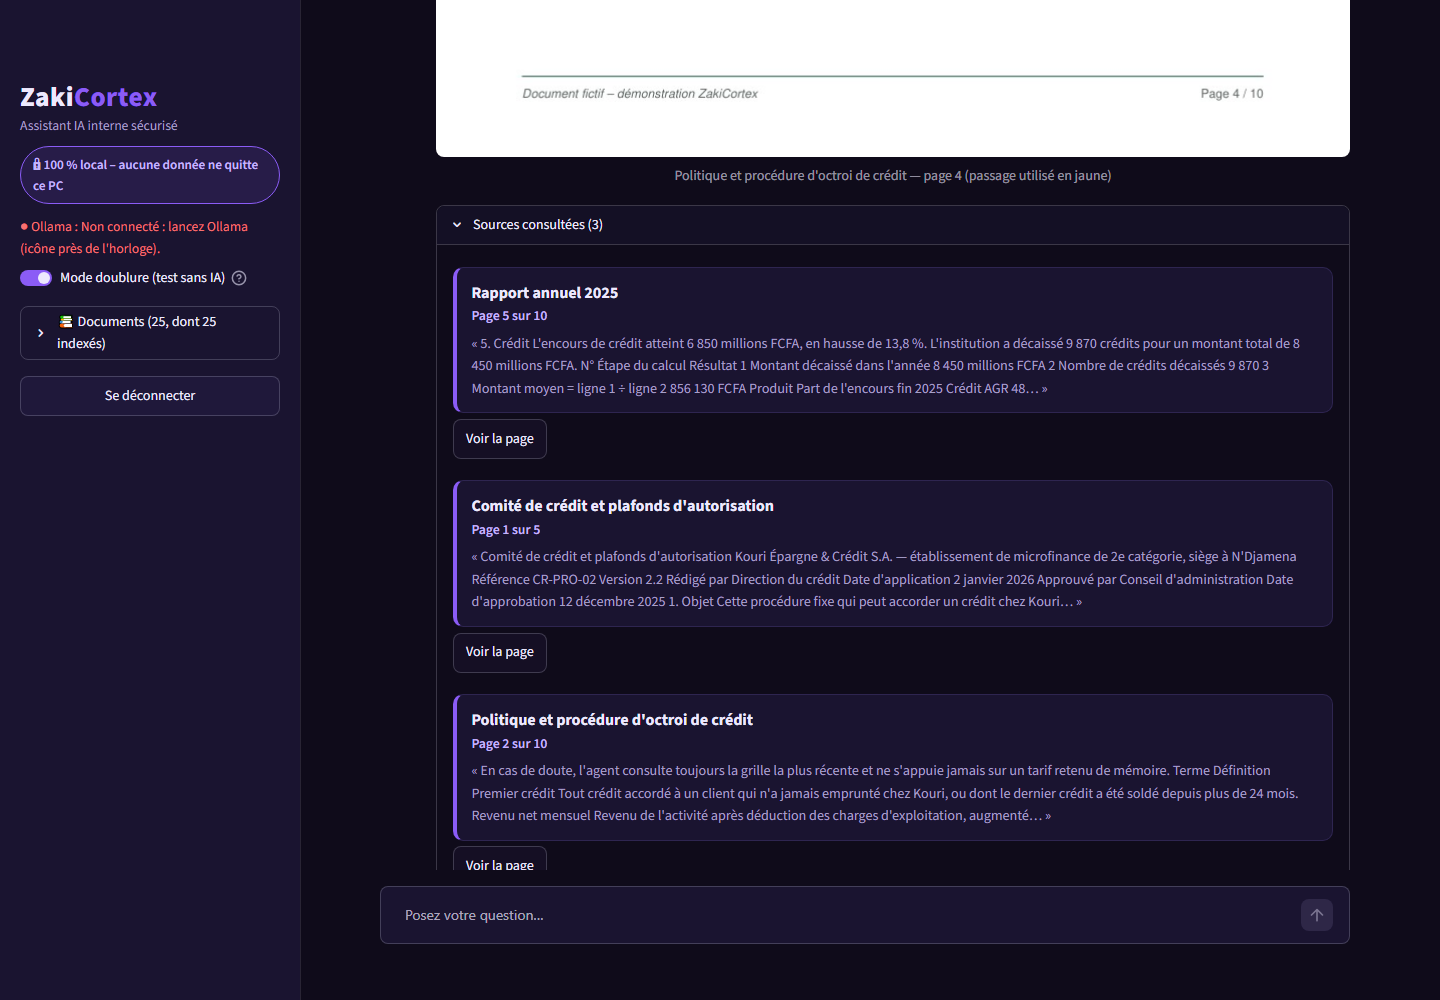
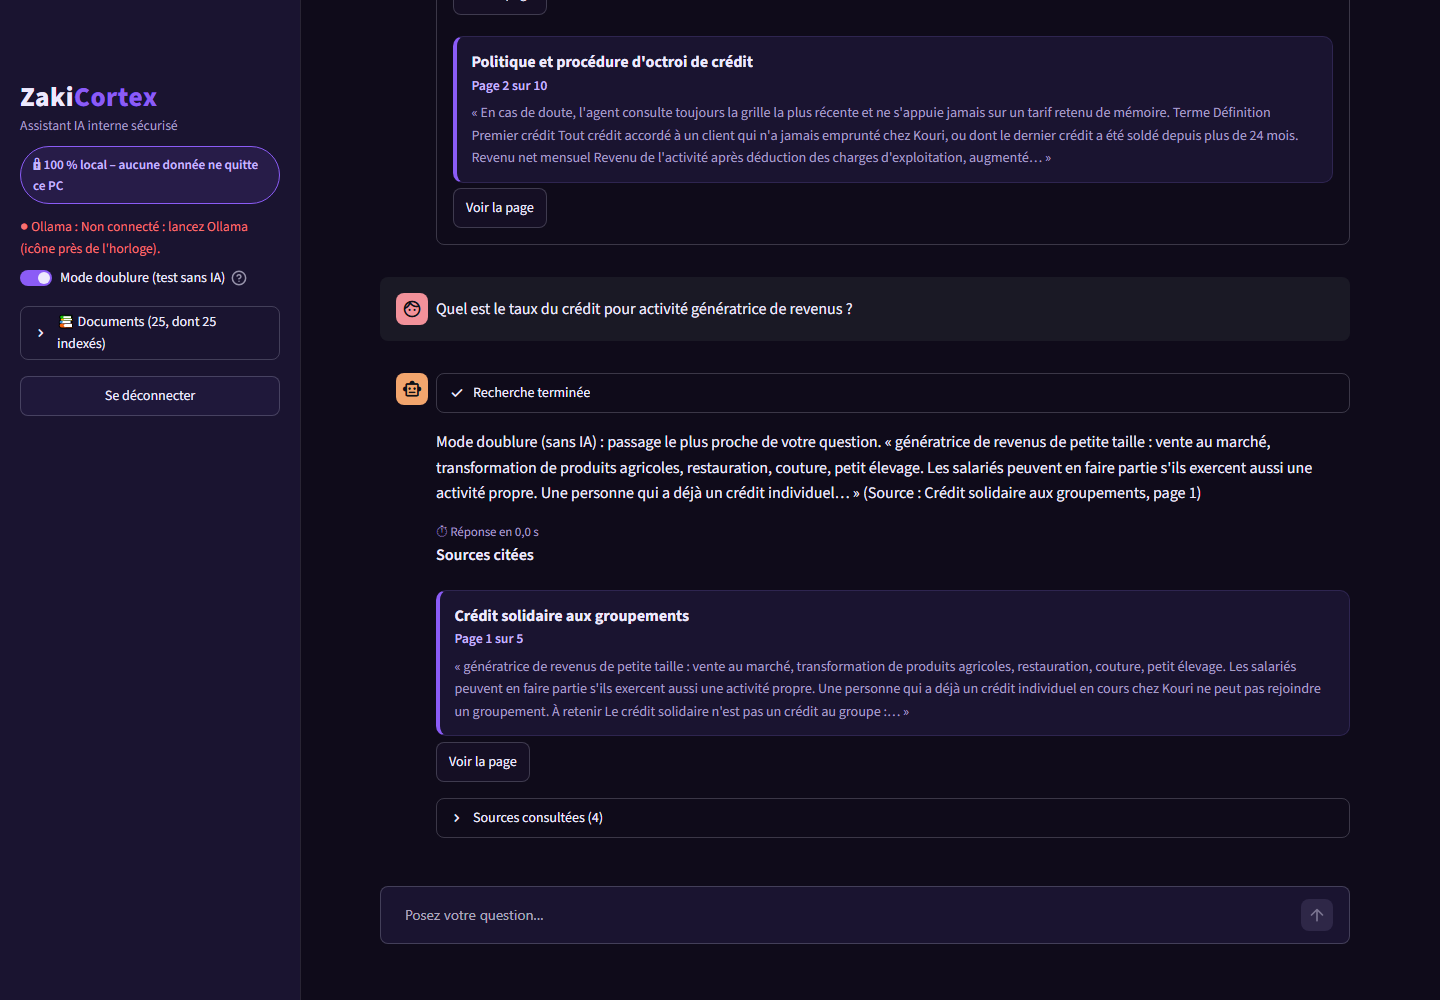
fix: connexion bloquée si mot de passe faible ; mode doublure sur autorisation
- mot de passe de démo absent, de moins de 12 caractères ou égal à la valeur
  d'exemple : toute connexion est refusée, message « Mot de passe de démo non
  configuré – voir le README » (règle unique dans config.py, partagée avec
  check_env)
- mode doublure masqué et inactif par défaut ; il n'apparaît que si
  ASSISTANT_ALLOW_MOCK=true (false dans .env.example) ; ASSISTANT_TEST_DOUBLE
  est sans effet sans cette autorisation
- README minimal : réglage du mot de passe et du mode doublure
- tests : mot de passe d'exemple ou court, doublure masquée, doublure imposée
  sans autorisation

Changed region(s): [[0.2812, 0.434, 0.9062, 0.868], [0.2812, 0.0, 0.9375, 0.248], [0.25, 0.279, 0.9062, 0.403]]

diff --git a/tests/test_app.py b/tests/test_app.py
@@ -7,7 +7,7 @@ import streamlit as st
 from streamlit.testing.v1 import AppTest
 
 from app.auth import NOT_CONFIGURED, WRONG_PASSWORD, verify_password
-from config import PROJECT_ROOT, get_settings
+from config import PROJECT_ROOT, get_settings, read_example_password
 from rag.doubles import DOUBLE_ANSWER_PREFIX
 from tests.pdf_factory import write_pdf
 
@@ -34,6 +34,8 @@ def app_env(tmp_path, monkeypatch):
     monkeypatch.setenv("ASSISTANT_INDEX_DIR", str(tmp_path / "index"))
     monkeypatch.setenv("ASSISTANT_LOGS_DIR", str(tmp_path / "logs"))
     monkeypatch.setenv("ASSISTANT_OLLAMA_HOST", "http://127.0.0.1:9")
+    monkeypatch.setenv("ASSISTANT_ALLOW_MOCK", "false")
+    monkeypatch.setenv("ASSISTANT_TEST_DOUBLE", "false")
     _reset_caches()
     yield
     _reset_caches()
@@ -67,6 +69,42 @@ def test_verification_du_mot_de_passe(make_settings):
     assert not verify_password("", make_settings(demo_password=""))
 
 
+def test_mot_de_passe_court_ou_d_exemple_toujours_refuse(make_settings):
+    exemple = read_example_password()
+    assert not verify_password(exemple, make_settings(demo_password=exemple))
+    assert not verify_password("Court-11car", make_settings(demo_password="Court-11car"))
+
+
+@pytest.mark.usefixtures("app_env")
+@pytest.mark.parametrize("mot_de_passe", ["exemple", "Court-11car"])
+def test_connexion_bloquee_si_mot_de_passe_exemple_ou_court(monkeypatch, mot_de_passe):
+    valeur = read_example_password() if mot_de_passe == "exemple" else mot_de_passe
+    monkeypatch.setenv("ASSISTANT_DEMO_PASSWORD", valeur)
+    get_settings.cache_clear()
+    at = AppTest.from_file(APP, default_timeout=TIMEOUT).run()
+    assert not at.exception
+    assert [e.value for e in at.error] == ["Mot de passe de démo non configuré – voir le README"]
+    assert not at.text_input
+    assert not any(b.label == "Se connecter" for b in at.button)
+
+
+@pytest.mark.usefixtures("app_env")
+def test_mode_doublure_masque_par_defaut():
+    at = _login(AppTest.from_file(APP, default_timeout=TIMEOUT).run())
+    assert not at.exception
+    assert not at.toggle
+    assert "doublure" not in _all_text(at).lower()
+
+
+@pytest.mark.usefixtures("app_env")
+def test_mode_doublure_impose_sans_autorisation_ignore(monkeypatch):
+    monkeypatch.setenv("ASSISTANT_TEST_DOUBLE", "true")
+    get_settings.cache_clear()
+    at = _login(AppTest.from_file(APP, default_timeout=TIMEOUT).run())
+    assert not at.toggle
+    assert "doublure" not in _all_text(at).lower()
+
+
 @pytest.mark.usefixtures("app_env")
 def test_ecran_de_connexion_puis_mot_de_passe_faux():
     at = AppTest.from_file(APP, default_timeout=TIMEOUT).run()
@@ -89,17 +127,18 @@ def test_mot_de_passe_non_configure(monkeypatch):
 def test_sans_ollama_message_clair_et_erreur_lisible():
     at = _login(AppTest.from_file(APP, default_timeout=TIMEOUT).run())
     assert not at.exception
-    texte = _all_text(at)
-    assert "Non connecté" in texte
-    assert "mode doublure" in texte.lower()
+    assert "Non connecté" in _all_text(at)
     at.chat_input[0].set_value("Quel est le plafond d'un premier crédit ?").run()
     assert not at.exception
     assert any("Ollama" in e.value for e in at.error)
 
 
 @pytest.mark.usefixtures("app_env")
-def test_parcours_complet_en_mode_doublure():
+def test_parcours_complet_en_mode_doublure(monkeypatch):
+    monkeypatch.setenv("ASSISTANT_ALLOW_MOCK", "true")
+    get_settings.cache_clear()
     at = _login(AppTest.from_file(APP, default_timeout=TIMEOUT).run())
+    assert "mode doublure" in _all_text(at).lower()
     at.toggle(key="doublure").set_value(True).run()
     assert not at.exception
     at.button(key="exemple_0").click().run()

diff --git a/app/auth.py b/app/auth.py
@@ -16,22 +16,18 @@ FAILS_KEY = "login_failures"
 LOCK_KEY = "login_locked_until"
 
 WRONG_PASSWORD = "Mot de passe incorrect. Vérifiez la saisie (majuscules, chiffres, symboles)."
-NOT_CONFIGURED = (
-    "Le mot de passe de démonstration n'est pas configuré. Ajoutez la ligne "
-    "ASSISTANT_DEMO_PASSWORD=… dans le fichier .env, puis relancez l'application."
-)
+NOT_CONFIGURED = "Mot de passe de démo non configuré – voir le README"
 
 logger = get_logger("app.auth")
 
 
-def password_configured(settings: Settings) -> bool:
-    """Indique si un mot de passe non vide est défini dans le .env."""
-    return settings.demo_password is not None and bool(settings.demo_password.get_secret_value())
-
-
 def verify_password(candidate: str, settings: Settings) -> bool:
-    """Compare le mot de passe saisi à celui du .env, en temps constant."""
-    if not password_configured(settings) or not candidate:
+    """Compare le mot de passe saisi à celui du .env, en temps constant.
+
+    Refuse toujours si le mot de passe du .env est absent, trop court ou égal à la
+    valeur d'exemple.
+    """
+    if not settings.demo_password_usable or not candidate:
         return False
     expected = settings.demo_password.get_secret_value().encode("utf-8")
     return hmac.compare_digest(candidate.encode("utf-8"), expected)
@@ -52,7 +48,8 @@ def render_login(settings: Settings) -> None:
     st.markdown(logo_html() + badge_html(), unsafe_allow_html=True)
     st.markdown("### Connexion")
     st.caption("Accès réservé au personnel. Saisissez le mot de passe de démonstration.")
-    if not password_configured(settings):
+    if not settings.demo_password_usable:
+        logger.warning("Connexion refusée : mot de passe de démo absent, trop court ou d'exemple.")
         st.error(NOT_CONFIGURED)
         return
     with st.form("login", clear_on_submit=True):

diff --git a/config.py b/config.py
@@ -23,6 +23,22 @@ LOCAL_HOSTS: frozenset[str] = frozenset({"localhost", "127.0.0.1", "::1"})
 
 LogLevel = Literal["DEBUG", "INFO", "WARNING", "ERROR"]
 
+MIN_PASSWORD_LENGTH = 12
+"""Longueur minimale du mot de passe de démonstration."""
+
+ENV_EXAMPLE_PATH: Path = PROJECT_ROOT / ".env.example"
+PASSWORD_KEY = "ASSISTANT_DEMO_PASSWORD"
+
+
+def read_example_password(path: Path = ENV_EXAMPLE_PATH) -> str | None:
+    """Lit la valeur d'exemple du mot de passe dans .env.example."""
+    if not path.exists():
+        return None
+    for line in path.read_text(encoding="utf-8").splitlines():
+        if line.startswith(f"{PASSWORD_KEY}="):
+            return line.split("=", 1)[1].strip()
+    return None
+
 
 class Settings(BaseSettings):
     """Ensemble des réglages de l'assistant, validés au chargement."""
@@ -65,6 +81,23 @@ class Settings(BaseSettings):
         default=False,
         description="Mode doublure : faux modèles locaux, pour tester l'interface sans Ollama.",
     )
+    allow_mock: bool = Field(
+        default=False,
+        description="Autorise le mode doublure (masqué et inactif sinon).",
+    )
+
+    @property
+    def demo_password_usable(self) -> bool:
+        """Vrai si le mot de passe de démo est défini, assez long et différent de l'exemple."""
+        if self.demo_password is None:
+            return False
+        value = self.demo_password.get_secret_value()
+        return len(value) >= MIN_PASSWORD_LENGTH and value != read_example_password()
+
+    @property
+    def mock_enabled(self) -> bool:
+        """Vrai si le mode doublure est autorisé et imposé par le .env."""
+        return self.allow_mock and self.test_double
 
     @field_validator("docs_dir", "index_dir", "logs_dir")
     @classmethod

diff --git a/app/main.py b/app/main.py
@@ -154,14 +154,18 @@ def main() -> None:
         return
 
     status = get_ollama_status(settings)
-    test_double = settings.test_double or bool(st.session_state.get("doublure"))
+    test_double = settings.mock_enabled or (
+        settings.allow_mock and bool(st.session_state.get("doublure"))
+    )
     try:
         runtime = get_runtime(settings, test_double)
     except AssistantError as error:
         st.error(error.user_message)
         return
     overview: list[DocumentSummary] = get_overview(runtime, str(settings.docs_dir), test_double)
-    components.render_sidebar(overview, status, settings.test_double, auth.logout)
+    components.render_sidebar(
+        overview, status, settings.allow_mock, settings.mock_enabled, auth.logout
+    )
 
     st.markdown(
         '<div class="zc-hero"><h1>Assistant IA interne sécurisé</h1>'
@@ -176,10 +180,14 @@ def main() -> None:
             unsafe_allow_html=True,
         )
     elif not status.ready:
+        hint = (
+            " Pour tester le parcours, activez le mode doublure dans la barre latérale."
+            if settings.allow_mock
+            else ""
+        )
         st.info(
             f"Ollama : {status.message} Les questions afficheront un message d'erreur "
-            "tant qu'Ollama n'est pas prêt. Pour tester le parcours, activez le mode "
-            "doublure dans la barre latérale."
+            f"tant qu'Ollama n'est pas prêt.{hint}"
         )
 
     renderer = make_renderer(settings)

diff --git a/scripts/check_env.py b/scripts/check_env.py
@@ -21,7 +21,13 @@ from enum import Enum
 
 from pydantic import ValidationError
 
-from config import PROJECT_ROOT, Settings
+from config import (
+    MIN_PASSWORD_LENGTH,
+    PASSWORD_KEY,
+    PROJECT_ROOT,
+    Settings,
+    read_example_password,
+)
 from rag.llm import model_is_installed
 
 SUPPORTED_PYTHON: tuple[tuple[int, int], ...] = ((3, 11), (3, 12))
@@ -36,12 +42,9 @@ REQUIRED_MODULES: dict[str, str] = {
 }
 MIN_RAM_GB = 8.0
 MIN_FREE_DISK_GB = 10.0
-MIN_PASSWORD_LENGTH = 12
 OLLAMA_TIMEOUT_S = 5.0
 GB = 1024**3
-ENV_EXAMPLE_PATH = PROJECT_ROOT / ".env.example"
 ENV_PATH = PROJECT_ROOT / ".env"
-PASSWORD_KEY = "ASSISTANT_DEMO_PASSWORD"
 
 
 class Status(Enum):
@@ -198,16 +201,6 @@ def fetch_ollama_models(host: str) -> list[str]:
     with urllib.request.urlopen(f"{host}/api/tags", timeout=OLLAMA_TIMEOUT_S) as response:
         payload = json.loads(response.read().decode("utf-8"))
     return [model["name"] for model in payload.get("models", [])]
-
-
-def read_example_password() -> str | None:
-    """Lit la valeur d'exemple du mot de passe dans .env.example."""
-    if not ENV_EXAMPLE_PATH.exists():
-        return None
-    for line in ENV_EXAMPLE_PATH.read_text(encoding="utf-8").splitlines():
-        if line.startswith(f"{PASSWORD_KEY}="):
-            return line.split("=", 1)[1].strip()
-    return None
 
 
 def run_checks() -> list[CheckResult]:

diff --git a/tests/test_config.py b/tests/test_config.py
@@ -3,7 +3,7 @@
 import pytest
 from pydantic import ValidationError
 
-from config import PROJECT_ROOT, Settings, get_settings
+from config import PROJECT_ROOT, Settings, get_settings, read_example_password
 
 
 def test_valeurs_par_defaut(make_settings):
@@ -78,6 +78,26 @@ def test_mot_de_passe_jamais_affiche(make_settings):
     assert "secret-de-test-123" not in repr(settings)
     assert "secret-de-test-123" not in str(settings.model_dump())
     assert settings.demo_password.get_secret_value() == "secret-de-test-123"
+
+
+@pytest.mark.parametrize(
+    ("valeur", "utilisable"),
+    [
+        (None, False),
+        ("", False),
+        ("Court-11car", False),
+        (read_example_password(), False),
+        ("Douze-carac!", True),
+    ],
+)
+def test_mot_de_passe_de_demo_utilisable(make_settings, valeur, utilisable):
+    assert make_settings(demo_password=valeur).demo_password_usable is utilisable
+
+
+def test_mode_doublure_exige_l_autorisation(make_settings):
+    assert not make_settings(test_double=True).mock_enabled
+    assert not make_settings(allow_mock=True).mock_enabled
+    assert make_settings(allow_mock=True, test_double=True).mock_enabled
 
 
 def test_get_settings_renvoie_toujours_le_meme_objet():

diff --git a/app/components.py b/app/components.py
@@ -25,10 +25,11 @@ PageRenderer = Callable[[Source], tuple[bytes | None, str]]
 def render_sidebar(
     overview: Sequence[DocumentSummary],
     status: OllamaStatus,
+    allow_mock: bool,
     double_forced: bool,
     on_logout: Callable[[], None],
 ) -> None:
-    """Barre latérale : logo, badge, état d'Ollama, mode doublure, documents."""
+    """Barre latérale : logo, badge, état d'Ollama, mode doublure (si autorisé), documents."""
     with st.sidebar:
         st.markdown(logo_html() + badge_html(), unsafe_allow_html=True)
         css_class = "zc-status-on" if status.ready else "zc-status-off"
@@ -38,7 +39,7 @@ def render_sidebar(
         )
         if double_forced:
             st.caption("Mode doublure imposé par le fichier .env (ASSISTANT_TEST_DOUBLE).")
-        elif not status.ready:
+        elif allow_mock:
             st.toggle(
                 "Mode doublure (test sans IA)",
                 key="doublure",

diff --git a/scripts/capture_ui.py b/scripts/capture_ui.py
@@ -145,7 +145,12 @@ def wait_http(url: str, timeout: float = 90.0) -> object:
 
 def start_app(password: str) -> subprocess.Popen:
     """Lance Streamlit sur le port de test, sans le mode doublure imposé."""
-    env = {**os.environ, "ASSISTANT_DEMO_PASSWORD": password, "ASSISTANT_TEST_DOUBLE": "false"}
+    env = {
+        **os.environ,
+        "ASSISTANT_DEMO_PASSWORD": password,
+        "ASSISTANT_ALLOW_MOCK": "true",
+        "ASSISTANT_TEST_DOUBLE": "false",
+    }
     command = [
         sys.executable,
         "-m",

diff --git a/README.md b/README.md
@@ -1,0 +1,35 @@
+# Assistant IA interne sécurisé — ZakiCortex
+
+> Démonstration : un assistant qui répond aux questions des employés à partir des
+> documents internes d'une institution, en citant le document et la page.
+> **Tout fonctionne sur le PC, sans Internet.** README complet en préparation.
+
+## Mot de passe de démo
+
+L'interface refuse toute connexion tant que le mot de passe de démonstration n'est
+pas configuré correctement. Message affiché : « Mot de passe de démo non configuré –
+voir le README ».
+
+Le mot de passe se règle dans le fichier `.env`, à la racine du projet, sur la ligne
+`ASSISTANT_DEMO_PASSWORD=`. Il doit :
+
+- faire **au moins 12 caractères** ;
+- être **différent de la valeur d'exemple** de `.env.example`.
+
+Pour le définir sans l'afficher à l'écran, dans PowerShell, à la racine du projet :
+
+```powershell
+$mdp = Read-Host "Nouveau mot de passe (12 caractères minimum)"
+$lignes = (Get-Content .env -Encoding UTF8) -replace '^ASSISTANT_DEMO_PASSWORD=.*', "ASSISTANT_DEMO_PASSWORD=$mdp"
+[IO.File]::WriteAllLines("$PWD\.env", $lignes, (New-Object Text.UTF8Encoding $false))
+.\.venv\Scripts\python -m scripts.check_env
+```
+
+`check_env` doit afficher `[OK] Fichier .env`. Relancez ensuite l'application. Le
+fichier `.env` n'est jamais publié (voir `.gitignore`).
+
+## Mode doublure (tests)
+
+Pour tester le parcours de l'interface sans Ollama, mettez `ASSISTANT_ALLOW_MOCK=true`
+dans `.env` : une bascule « Mode doublure » apparaît alors dans la barre latérale.
+Laissez `false` pour une démonstration client.
